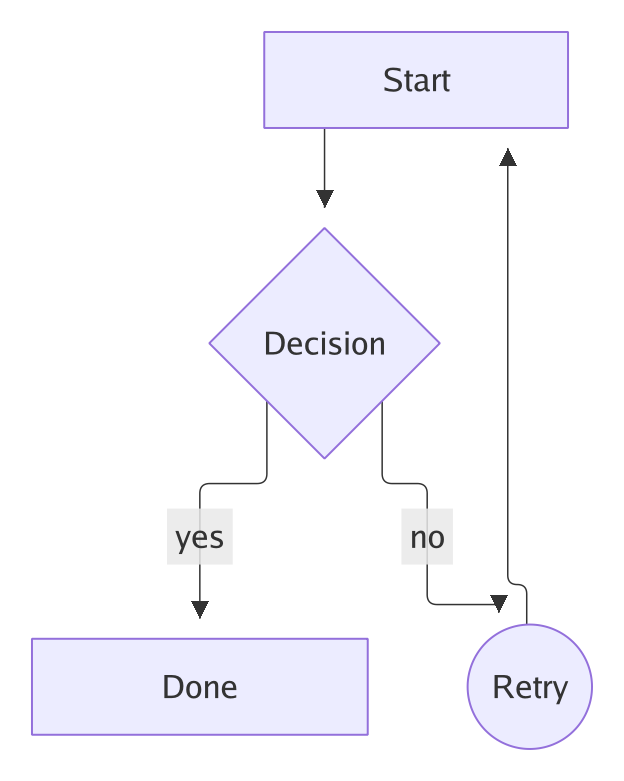
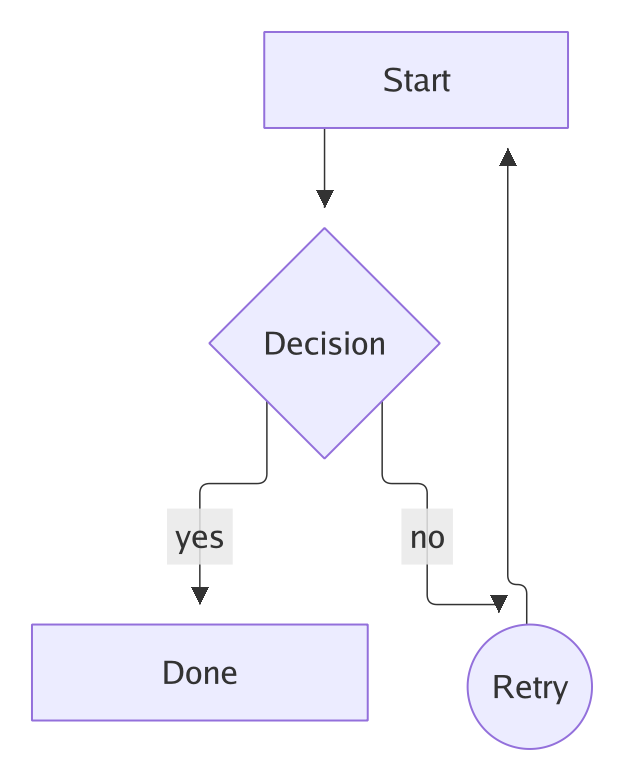
fix(flowchart): wrap and align labels the way a browser does
Long words break after a hyphen and are kept whole otherwise, unless far
too wide; a very long label wraps wider so its box does not grow far
taller than it is wide; steps that differ by under half a pixel stay one
straight line, so an edge never ends on a slant; and nodes line up on the
side of their rank the edges come from, so a row of boxes shares its top
edge, as in mermaid.js.

Changed region(s): [[0.0304, 0.7375, 0.609, 0.9526]]

diff --git a/internal/svgutil/wrap.go b/internal/svgutil/wrap.go
@@ -1,6 +1,7 @@
 package svgutil
 
 import (
+	"math"
 	"regexp"
 	"strings"
 )
@@ -17,9 +18,10 @@ func Breaks(s string) []string {
 }
 
 // Wrap breaks text into lines no wider than maxWidth at the given font size,
-// the way mermaid.js wraps a label: at its explicit breaks first, then
-// between words. A single word wider than maxWidth stays whole unless it is
-// far wider, when it is cut. maxWidth <= 0 only splits at explicit breaks.
+// the way a browser wraps a label: at its explicit breaks first, then
+// between words, and inside a word only after a hyphen. A piece
+// wider than maxWidth stays whole unless it is far wider, when it is cut.
+// maxWidth <= 0 only splits at explicit breaks.
 func (f Face) Wrap(text string, fontSize, maxWidth float64) []string {
 	var out []string
 	for _, line := range Breaks(text) {
@@ -30,12 +32,16 @@ func (f Face) Wrap(text string, fontSize, maxWidth float64) []string {
 		}
 		cur := ""
 		for _, word := range strings.Fields(line) {
-			for _, piece := range f.cut(word, fontSize, maxWidth*1.5) {
+			for i, piece := range f.pieces(word, fontSize, maxWidth) {
+				joined := cur + piece
+				if i == 0 && cur != "" {
+					joined = cur + " " + piece
+				}
 				switch {
 				case cur == "":
 					cur = piece
-				case f.Width(cur+" "+piece, fontSize) <= maxWidth:
-					cur += " " + piece
+				case f.Width(joined, fontSize) <= maxWidth:
+					cur = joined
 				default:
 					out = append(out, cur)
 					cur = piece
@@ -47,24 +53,34 @@ func (f Face) Wrap(text string, fontSize, maxWidth float64) []string {
 	return out
 }
 
-// cut splits a word wider than limit into pieces no wider than limit.
-func (f Face) cut(word string, fontSize, limit float64) []string {
-	if f.Width(word, fontSize) <= limit {
-		return []string{word}
-	}
-	var pieces []string
-	var cur []rune
-	for _, r := range word {
-		if len(cur) > 0 && f.Width(string(append(cur, r)), fontSize) > limit {
-			pieces = append(pieces, string(cur))
-			cur = cur[:0]
+// pieces splits a word after each hyphen, and cuts any piece far
+// wider than maxWidth.
+func (f Face) pieces(word string, fontSize, maxWidth float64) []string {
+	var parts []string
+	start := 0
+	for i, r := range word {
+		if r == '-' && i > start && i+1 < len(word) {
+			parts = append(parts, word[start:i+1])
+			start = i + 1
 		}
-		cur = append(cur, r)
 	}
-	if len(cur) > 0 {
-		pieces = append(pieces, string(cur))
+	parts = append(parts, word[start:])
+	var out []string
+	for _, p := range parts {
+		out = append(out, f.cut(p, fontSize, math.Max(maxWidth*2, 360))...)
 	}
-	return pieces
+	return out
+}
+
+// WrapWidthFor returns the width to wrap text at: base, widened for long
+// text so the wrapped block does not grow far taller than it is wide.
+func (f Face) WrapWidthFor(text string, fontSize, lineHeight, base, most float64) float64 {
+	total := 0.0
+	for _, l := range Breaks(text) {
+		total += f.Width(l, fontSize)
+	}
+	w := math.Sqrt(total * lineHeight * 0.6)
+	return math.Max(base, math.Min(w, most))
 }
 
 // LinesWidth returns the width of the widest of lines.
@@ -85,4 +101,24 @@ func JoinBreaks(s string) string { return strings.Join(Breaks(s), "\n") }
 // with sans-serif metrics; see Face.Wrap.
 func Wrap(text string, maxWidth, fontSize float64) []string {
 	return FaceSans.Wrap(text, fontSize, maxWidth)
+}
+
+// cut splits a word wider than limit into pieces no wider than limit.
+func (f Face) cut(word string, fontSize, limit float64) []string {
+	if f.Width(word, fontSize) <= limit {
+		return []string{word}
+	}
+	var pieces []string
+	var cur []rune
+	for _, r := range word {
+		if len(cur) > 0 && f.Width(string(append(cur, r)), fontSize) > limit {
+			pieces = append(pieces, string(cur))
+			cur = cur[:0]
+		}
+		cur = append(cur, r)
+	}
+	if len(cur) > 0 {
+		pieces = append(pieces, string(cur))
+	}
+	return pieces
 }

diff --git a/internal/parser/syntax_test.go b/internal/parser/syntax_test.go
@@ -112,16 +112,16 @@ func TestLinkForms(t *testing.T) {
 
 func TestLabelText(t *testing.T) {
 	cases := map[string]string{
-		"A[\"`**Markdown** string with *emphasis*`\"]":       "Markdown string with emphasis",
-		"A[\"Quotes &quot;inside&quot; and #amp; entity\"]":  `Quotes "inside" and & entity`,
-		"A[\"one<br/>two\"]":                                 "one\ntwo",
-		"A[\"one<b>bold</b> two\"]":                          "onebold two",
-		"A[\"#35; and #quot;q#quot;\"]":                      `# and "q"`,
-		"A[Ünïcödé — ✓ 日本語]":                                 "Ünïcödé — ✓ 日本語",
-		"A[\"`line one\n  line two`\"]":                      "line one\nline two",
-		"A[\"a < b and c > d\"]":                             "a < b and c > d",
-		"A[\"<script>alert(1)</script>\"]":                   "alert(1)",
-		"A[\"&lt;img src=x onerror=alert(1)&gt;\"]":          "<img src=x onerror=alert(1)>",
+		"A[\"`**Markdown** string with *emphasis*`\"]":      "Markdown string with emphasis",
+		"A[\"Quotes &quot;inside&quot; and #amp; entity\"]": `Quotes "inside" and & entity`,
+		"A[\"one<br/>two\"]":                                "one\ntwo",
+		"A[\"one<b>bold</b> two\"]":                         "onebold two",
+		"A[\"#35; and #quot;q#quot;\"]":                     `# and "q"`,
+		"A[Ünïcödé — ✓ 日本語]":                                "Ünïcödé — ✓ 日本語",
+		"A[\"`line one\n  line two`\"]":                     "line one\nline two",
+		"A[\"a < b and c > d\"]":                            "a < b and c > d",
+		"A[\"<script>alert(1)</script>\"]":                  "alert(1)",
+		"A[\"&lt;img src=x onerror=alert(1)&gt;\"]":         "<img src=x onerror=alert(1)>",
 		"A[\"#lt;rect width=#quot;9999#quot;/#gt; plain\"]": `<rect width="9999"/> plain`,
 	}
 	for src, want := range cases {

diff --git a/internal/layout/flow_route.go b/internal/layout/flow_route.go
@@ -90,8 +90,8 @@ func assignTracks(runs []*hrun) int {
 func (f *flowGraph) planPorts() {
 	f.routes = map[*fedge]*route{}
 	type use struct {
-		r    *route
-		idx  int     // index in xs of this end
+		r      *route
+		idx    int     // index in xs of this end
 		toward float64 // cross position of the adjacent waypoint
 	}
 	sides := map[*fnode]map[bool][]use{}
@@ -173,15 +173,19 @@ func (f *flowGraph) route() {
 		}
 		var pts []rpt
 		first, last := e.chain[0], e.chain[len(e.chain)-1]
-		pts = append(pts, rpt{r.xs[0], first.p + first.ps/2})
+		x := r.xs[0]
+		pts = append(pts, rpt{x, first.p + first.ps/2})
 		for i := 0; i+1 < len(e.chain); i++ {
 			if t := r.tracks[i]; t >= 0 {
-				g := e.chain[i].rank
-				y := f.trackY(g, t)
-				pts = append(pts, rpt{r.xs[i], y}, rpt{r.xs[i+1], y})
+				y := f.trackY(e.chain[i].rank, t)
+				x = r.xs[i+1]
+				pts = append(pts, rpt{r.xs[i], y}, rpt{x, y})
 			}
+			// A step without a run differs by less than half a pixel: keep
+			// the line straight.
+			r.xs[i+1] = x
 		}
-		pts = append(pts, rpt{r.xs[len(r.xs)-1], last.p - last.ps/2})
+		pts = append(pts, rpt{x, last.p - last.ps/2})
 		e.rpts = simplify(pts)
 		if e.label != nil {
 			e.labelAt = rpt{r.xs[indexOf(e.chain, e.label)], e.label.p}

diff --git a/internal/layout/flow.go b/internal/layout/flow.go
@@ -38,7 +38,7 @@ func Flow(g *domain.Graph, opts Options) (*Result, error) {
 const (
 	defaultWrapWidth = 120.0 // node labels, as mermaid.js 12
 	labelWrapWidth   = 200.0 // edge labels
-	nodePadX         = 16.0 // text to rectangle edge, each side
+	nodePadX         = 16.0  // text to rectangle edge, each side
 	nodePadY         = 12.0
 	labelPadX        = 4.0 // text to edge-label background, each side
 	labelPadY        = 2.0
@@ -78,7 +78,11 @@ func measure(g *domain.Graph, opts Options) {
 		if label == "" && n.Shape != domain.ShapeSmallCircle && n.Shape != domain.ShapeFramedCircle {
 			label = n.ID
 		}
-		n.Lines = face.Wrap(label, fs, opts.WrapWidth)
+		wrapAt := opts.WrapWidth
+		if wrapAt > 0 {
+			wrapAt = face.WrapWidthFor(label, fs, lh, wrapAt, math.Max(wrapAt, 2*labelWrapWidth-100))
+		}
+		n.Lines = face.Wrap(label, fs, wrapAt)
 		if label == "" {
 			n.Lines = nil
 		}
@@ -87,7 +91,7 @@ func measure(g *domain.Graph, opts Options) {
 		if boxLike(n.Shape) && opts.WrapWidth > 0 {
 			// mermaid.js 12 gives every box the full wrapping width, so a
 			// row of boxes lines up.
-			tw = math.Max(tw, opts.WrapWidth)
+			tw = math.Max(tw, math.Min(wrapAt, opts.WrapWidth))
 		}
 		n.Size = shapeSize(n.Shape, tw, th)
 	}

diff --git a/internal/svgutil/wrap_test.go b/internal/svgutil/wrap_test.go
@@ -36,3 +36,25 @@ func TestWrap(t *testing.T) {
 		t.Errorf("a word a little too wide stays whole, got %q", got)
 	}
 }
+
+func TestWrapBreaksAfterHyphens(t *testing.T) {
+	got := FaceSans.Wrap("OnFailure=: digin-backup-failed.service, make backup-failed", 16, 120)
+	for _, l := range got {
+		if FaceSans.Width(l, 16) > 120*1.5 {
+			t.Errorf("line %q too wide", l)
+		}
+	}
+	joined := strings.Join(got, "")
+	if strings.ReplaceAll(joined, " ", "") != strings.ReplaceAll("OnFailure=: digin-backup-failed.service, make backup-failed", " ", "") {
+		t.Errorf("lost text: %q", got)
+	}
+	found := false
+	for _, l := range got {
+		if strings.HasSuffix(l, "-") {
+			found = true
+		}
+	}
+	if !found {
+		t.Errorf("no break after a hyphen: %q", got)
+	}
+}

diff --git a/internal/layout/flow_place.go b/internal/layout/flow_place.go
@@ -347,9 +347,15 @@ func (f *flowGraph) placePrimary() {
 		f.trackBottom[r] = p
 		p += startRoom[r+1]
 	}
+	// Nodes line up on the side of their layer the edges come from, as in
+	// mermaid.js, so a row of boxes shares its top edge; labels and dummies
+	// sit in the middle.
 	for r, layer := range f.layers {
 		for _, n := range layer {
 			n.p = f.bandTop[r] + f.bandH[r]/2
+			if n.real != nil {
+				n.p = f.bandTop[r] + n.ps/2
+			}
 		}
 	}
 	for i, c := range f.clusters {

diff --git a/internal/layout/flow_out.go b/internal/layout/flow_out.go
@@ -138,7 +138,7 @@ func clipToOutline(n *domain.Node, end, next domain.Point) domain.Point {
 	}
 	c := n.Center()
 	w, h := n.Size.W, n.Size.H
-	if math.Abs(end.X-next.X) < 0.01 {
+	if math.Abs(end.X-next.X) < 0.5 {
 		// Vertical segment: find the outline at x = end.X on the side
 		// facing next.
 		dy := halfExtent(n.Shape, w, h, end.X-c.X, true)

diff --git a/internal/render/svg_test.go b/internal/render/svg_test.go
@@ -6,10 +6,10 @@ import (
 	"strings"
 	"testing"
 
-	. "github.com/smartystreets/goconvey/convey"
 	"github.com/arlintdev/go-mermaid/internal/goldentest"
 	"github.com/arlintdev/go-mermaid/internal/layout"
 	"github.com/arlintdev/go-mermaid/internal/parser"
+	. "github.com/smartystreets/goconvey/convey"
 )
 
 func laidOut(src string) *layout.Result {

diff --git a/internal/parser/parser_test.go b/internal/parser/parser_test.go
@@ -4,9 +4,9 @@ import (
 	"errors"
 	"testing"
 
-	. "github.com/smartystreets/goconvey/convey"
 	"github.com/arlintdev/go-mermaid/internal/domain"
 	"github.com/arlintdev/go-mermaid/internal/lexer"
+	. "github.com/smartystreets/goconvey/convey"
 )
 
 func parse(src string) (*domain.Graph, error) {

diff --git a/internal/parser/gaps_test.go b/internal/parser/gaps_test.go
@@ -3,8 +3,8 @@ package parser
 import (
 	"testing"
 
-	. "github.com/smartystreets/goconvey/convey"
 	"github.com/arlintdev/go-mermaid/internal/domain"
+	. "github.com/smartystreets/goconvey/convey"
 )
 
 func graphOf(src string) *domain.Graph {

diff --git a/internal/parser/branches_test.go b/internal/parser/branches_test.go
@@ -3,8 +3,8 @@ package parser
 import (
 	"testing"
 
-	. "github.com/smartystreets/goconvey/convey"
 	"github.com/arlintdev/go-mermaid/internal/domain"
+	. "github.com/smartystreets/goconvey/convey"
 )
 
 func TestDirections(t *testing.T) {
